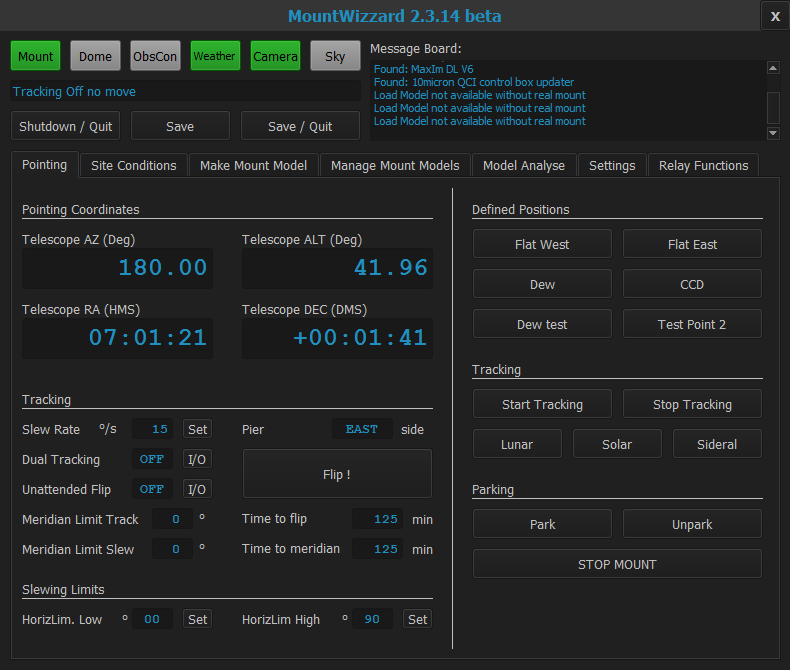
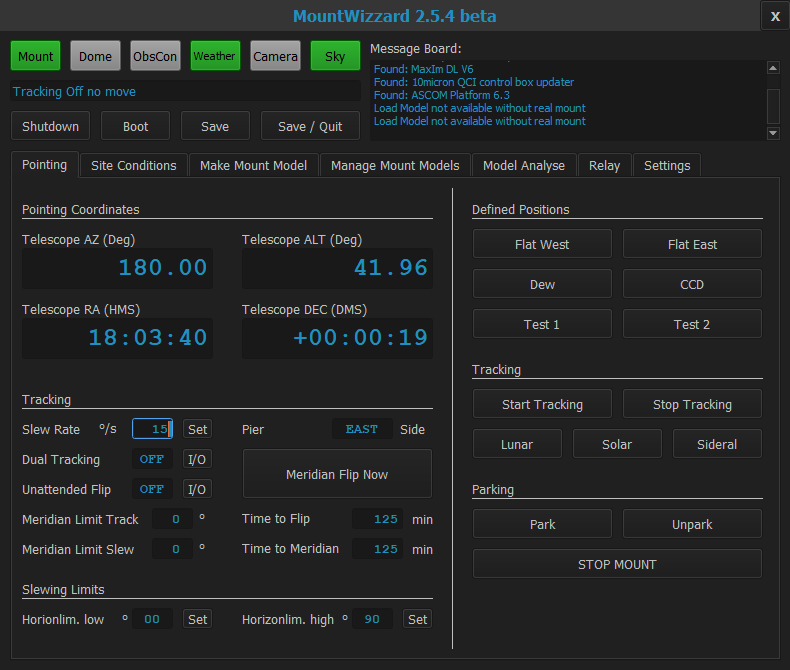
update docu for WOL

diff --git a/docu/firststeps0.md b/docu/firststeps0.md
@@ -1,0 +1,18 @@
+## First steps in MountWizzard
+
+### Overview of working areas inside MountWizzard main screen
+
+Basically you have 3 main areas, where the functions of MW are located:
+
+<img src="pics/mainscreen_explain02.png"/>
+
+### Area
+
+If you have configured the IP and MAC address of your mount, because you have a direct ethernet
+connection established, you could boot your mount from firmware 2.15.7 on with Wake On Lan (WOL)
+feature by pressing the boot button.
+
+The shutdown command to the mount could be send with the shutdown button.
+
+
+[Back Home](home.md)

diff --git a/docu/firststeps.md b/docu/firststeps.md
@@ -18,6 +18,8 @@ You have the status buttons of the devices showing different colors:
 The yellow color only exists in camera device. There you could distinguish between the application fpr imaging is running
 (showing yellow) and the camera itself is connected to the imaging application itself (green).
 
+- [Booting and Shutdown of Mount via Ethernet](firststeps0.md)
+
 ### Area 2
 
 It's called the message board. So all necessary information, status hints or error messages are displayed there. It's like
